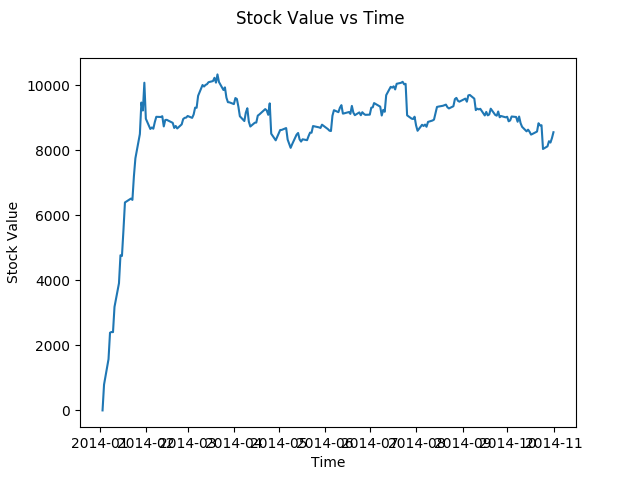
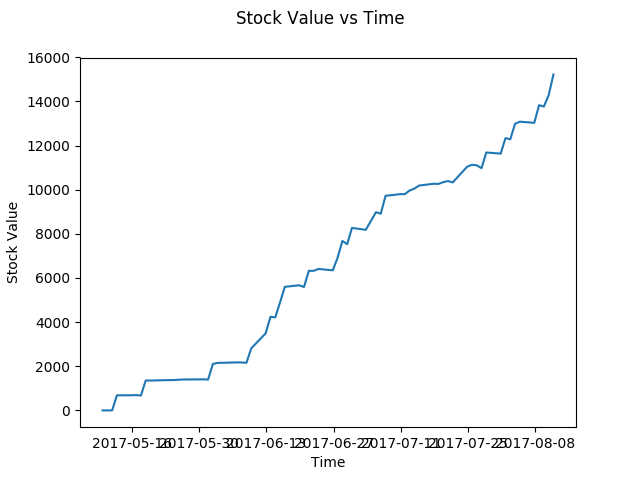
Graphs + Changes + download

diff --git a/react/stocks/src/App.js b/react/stocks/src/App.js
@@ -3,6 +3,7 @@ import React, { Component } from 'react';
 import './App.css';
 import {Row, Input, Button} from 'react-materialize';
 import MirrorTextWithHighlighting from './components/MirrorTextWithHighlighting';
+import SyntaxHighlighter from 'react-syntax-highlighter';
 import dateFormat from 'dateformat';
 import request from 'superagent';
 
@@ -41,6 +42,11 @@ class App extends Component {
         </div>
         <Button waves="light" onClick={this.updateCode.bind(this)}>Translate to Code</Button>
         <MirrorTextWithHighlighting showText = {this.state.currentText}/>
+        <Row>
+          <img src="portfolio_value.png"/>
+        </Row>
+       
+          <Button> <a href="algorithm.py" download> Download algorithm! </a></Button>
         </div>
       </div>
     );
@@ -54,7 +60,10 @@ class App extends Component {
     this.setState({toDate: v});
   }
 
-  updateCode() {
+  updateCode(e) {
+    e.preventDefault();
+    e.stopPropagation();
+    e.nativeEvent.stopImmediatePropagation();
     const fromDate = this.state.fromDate;
     const toDate = this.state.toDate;
     const fixedFromDate = dateFormat(fromDate, "yyyy/mm/dd").split("/").join("-");
@@ -62,58 +71,16 @@ class App extends Component {
     console.log("Updating code: " + JSON.stringify(this.state) + " and " + fixedFromDate);
     const objFit = {currentText: this.state.currentText, fromDate: fixedFromDate, fixedToDate: fixedToDate}; // yyyy/mm/dd
     console.log('thing to send: ' + JSON.stringify(objFit));
-    // SEND REQUEST HERE!
+    fetch("http://a306cf12.ngrok.io/api/text", {
+      method: 'POST',
+      body: 'text=' + this.state.currentText + '&start=' + fixedFromDate + '&end=' + fixedToDate,
+      headers: {
+        'Content-Type': 'application/x-www-form-urlencoded'
+      }
+    }).then((response) => {
+      console.log(JSON.stringify(response));
+    })
   }
-
-  // updateCode() {
-  //   console.log("Code has been updated.");
-  //   // Where the network request will go.
-  //   request.get('http://127.0.0.1:5000/api?text=' + this.state.currentText) // if MSFT drops 20% from yesterday, buy 10 shares of AAPL.
-  //          .end((err, res) => {
-  //            try {
-  //              console.log('yeh: ');
-  //            if (err) console.log(err);
-  //            console.log('response recieved: ' + JSON.stringify(res));
-  //            const base = JSON.parse(res.text);
-  //            const action = base.action;
-  //            const condition = base.condition;
-  //           //  console.log("action: " + JSON.stringify(condition));
-  //           // Add ticker from ACTION
-  //           this.state.actionsAndConditions.push({type: 'ticker', value: action.ticker});
-  //           // Add amount from ACTION
-  //           this.state.actionsAndConditions.push({type: 'amount', value: action.amount});
-  //           // Add amount_unit from ACTION
-  //           this.state.actionsAndConditions.push({type: 'amount_unit', value: action.amount_unit});
-  //           // Add position from ACTION
-  //           this.state.actionsAndConditions.push({type: 'position', value: action.position});
-
-  //           // // Add action from ACTION
-  //           // this.state.actionsAndConditions.push({type: 'action', value: action.action});
-
-  //           // Add type from CONDITION
-  //           this.state.actionsAndConditions.push({type: 'type', value: condition.type})
-  //           // Add ticker from CONDITION
-  //           this.state.actionsAndConditions.push({type: 'ticker', value: condition.payload.stocks[0].ticker});
-  //           // Add price from CONDITION
-  //           this.state.actionsAndConditions.push({type: 'price', value: condition.payload.stocks[1].field})
-  //           // Add threshold for CONDITION
-  //           this.state.actionsAndConditions.push({type: 'threshold', value: condition.threshold});
-  //           // Add threshold_type for CONDITION
-  //           this.state.actionsAndConditions.push({type: 'threshold_type', value: condition.threshold_type})
-
-  //           // // Add amount from CONDITION
-  //           // this.state.actionsAndConditions.push({type: 'amount', value: condition.amount});
-  //           // // Add verb from CONDITION
-  //           // this.state.actionsAndConditions.push({type: 'verb', value: condition.verb});
-  //           // // Add time from CONDITION
-  //           // this.state.actionsAndConditions.push({type: 'time', value: condition.time});
-  //           // // Add isPercentage from CONDITION
-  //           // this.state.actionsAndConditions.push({type: 'isPercentage', value: condition.isPercentage});
-
-  //           this.setState({currentText: this.highlightCurrentText()});
-  //            } catch (e) {}
-  //          })
-  // }
 
   updateAlgoText(obj, value) {
     this.setState({currentText: value});

diff --git a/backtest.py b/backtest.py
@@ -120,29 +120,32 @@ def analyze(context=None, results=None):
     transactionPoints = transactionPoints.reset_index()
 
     plt.figure()
+    plt.rcParams['axes.facecolor'] = 'black'
     plt.suptitle('Portfolio Value vs Time')
-    plt.plot(results.portfolio_value)
-    plt.plot_date(transactionPoints['index'], transactionPoints['portfolio_value'])
+    plt.plot(results.portfolio_value, color='#30cd9a')
+    plt.plot_date(transactionPoints['index'], transactionPoints['portfolio_value'], color='white')
     plt.xlabel('Time')
     plt.ylabel('Portfolio Value')
-    plt.savefig('portfolio_value.png')
+    plt.savefig('react/stocks/public/portfolio_value.png')
 
     plt.figure()
+    plt.rcParams['axes.facecolor'] = 'black'
     plt.suptitle('Stock Value vs Time')
-    plt.plot(results.ending_value)
+    plt.plot(results.ending_value, color='#30cd9a')
     plt.xlabel('Time')
     plt.ylabel('Stock Value')
-    plt.savefig('stock_value.png')
+    plt.savefig('react/stocks/public/stock_value.png')
 
     plt.figure()
+    plt.rcParams['axes.facecolor'] = 'black'
     plt.suptitle('Transactions vs Time')
-    plt.plot(transactionPoints.portfolio_value)
+    plt.plot(transactionPoints.portfolio_value, color='#30cd9a')
     plt.xlabel('Time')
     plt.ylabel('Transaction Costs')
 
     # Show the plot.
     plt.gcf().set_size_inches(18, 8)
-    plt.savefig('transactions.png')
+    plt.savefig('react/stocks/public/transactions.png')
 
 def test_conditional(conditional, context, data):
     current_price = data.current(symbol(conditional['ticker']), 'price')

diff --git a/app.py b/app.py
@@ -4,7 +4,6 @@ import json
 import nlp
 from flask_cors import CORS, cross_origin
 from backtest import backtests
-import algo_generator
 
 app = Flask(__name__)
 CORS(app)
@@ -12,7 +11,7 @@ app.static_folder = 'static'
 
 @app.route('/', methods=['GET'])
 def home():
-
+    
     if request.args:
         message = request.args['message']
         start = request.args['start']
@@ -31,12 +30,14 @@ def postData():
 
 @app.route('/api/text', methods=['POST'])
 def handle_text():
-    if request.args:
-        message = request.args['text']
-        start = request.args['start']
-        end = request.args['end']
-        algo_config = nlp.splitString(message)
-        algo_generator.generate_algorithm(algo_config)
+    print(len(request.form))
+    print(len(request.values))
+    print(len(request.args))
+    if len(request.form) > 0:
+        print(request.form)
+        message = request.form['text']
+        start = request.form['start']
+        end = request.form['end']
         return json.dumps(backtests(nlp.splitString(message), start, end))
 
 @app.route('/api', methods=['GET'])

diff --git a/algo_generator.py b/algo_generator.py
@@ -13,7 +13,7 @@ def generate_algorithm(algos):
     lines= f.readlines()
     lines.insert(13, lines[-1])
     lines = lines[:-1]
-    thefile = open('algorithm.py', 'w')
+    thefile = open('react/stocks/public/algorithm.py', 'w')
     for line in lines:
         thefile.write("%s" % line)
 
